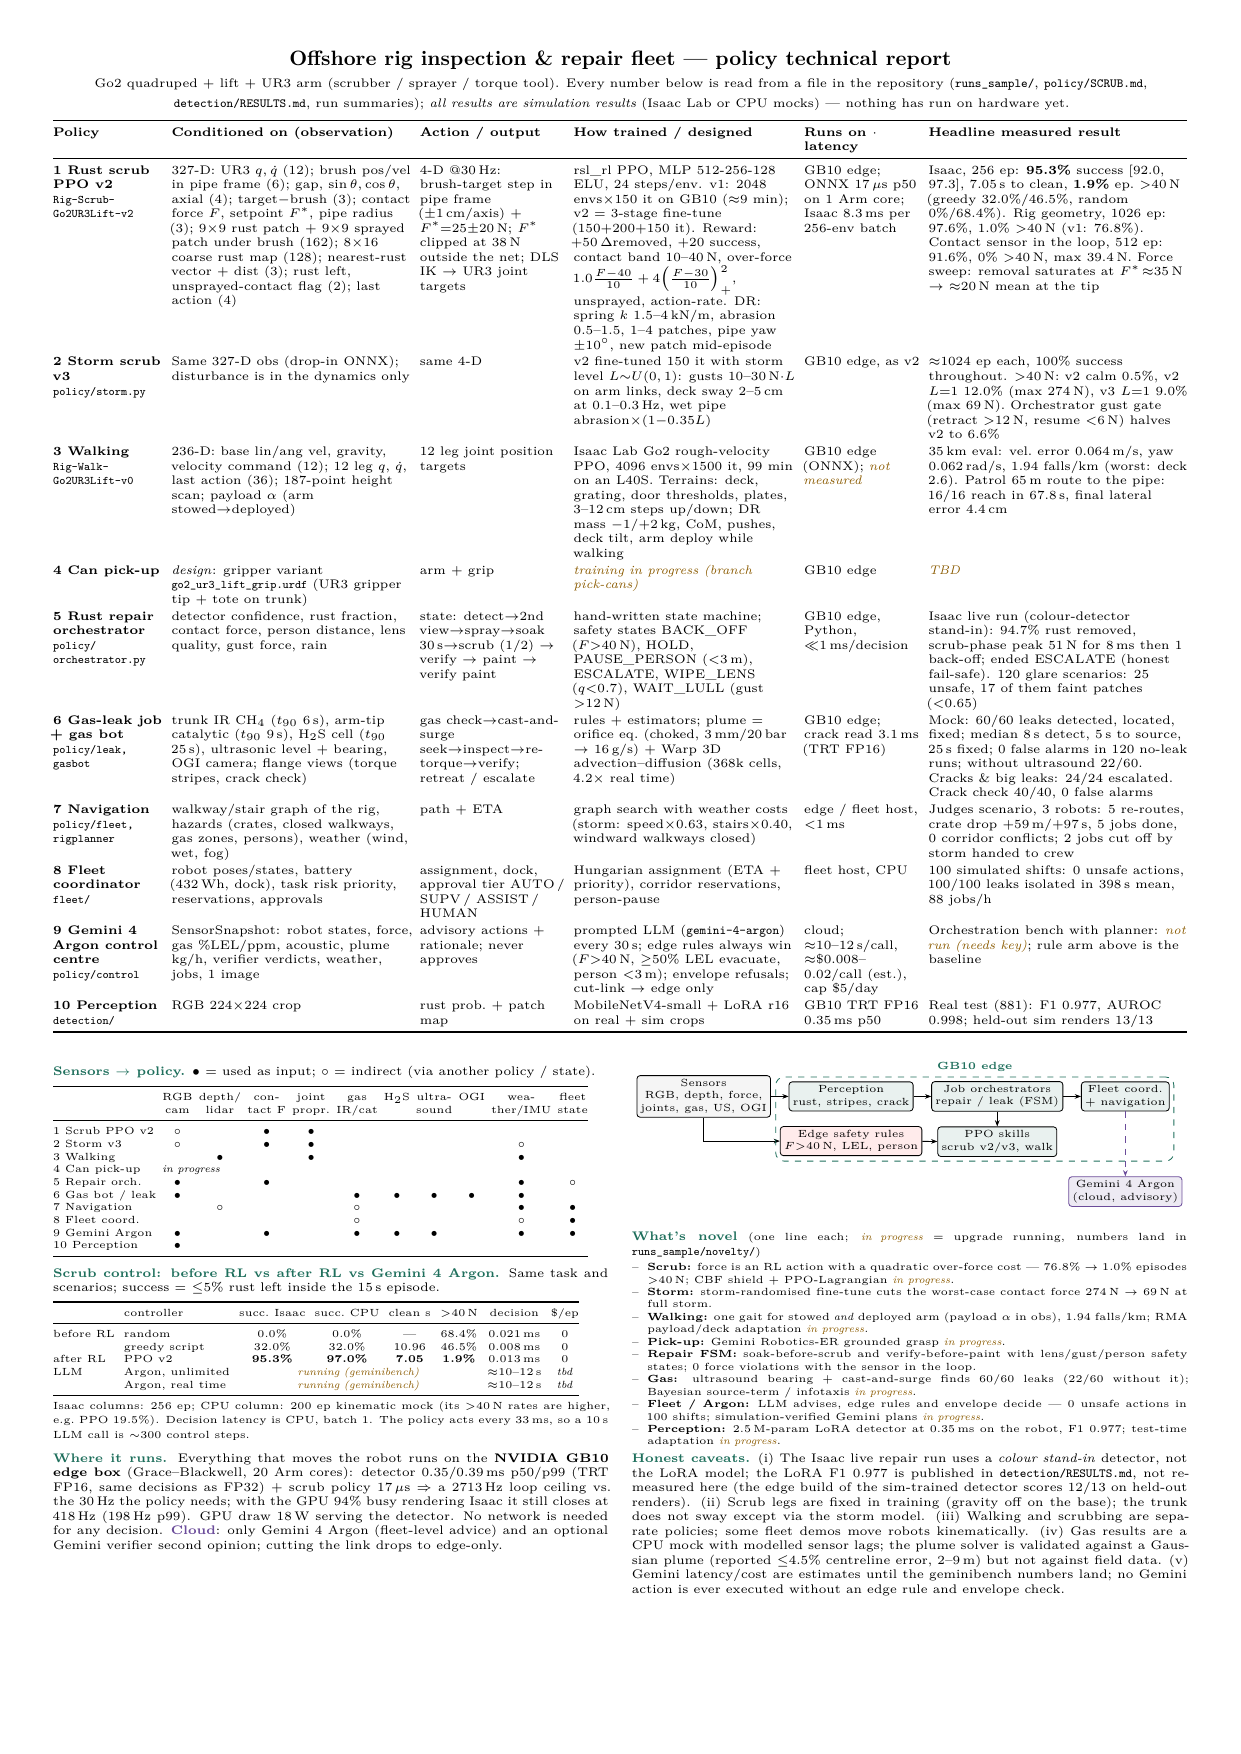
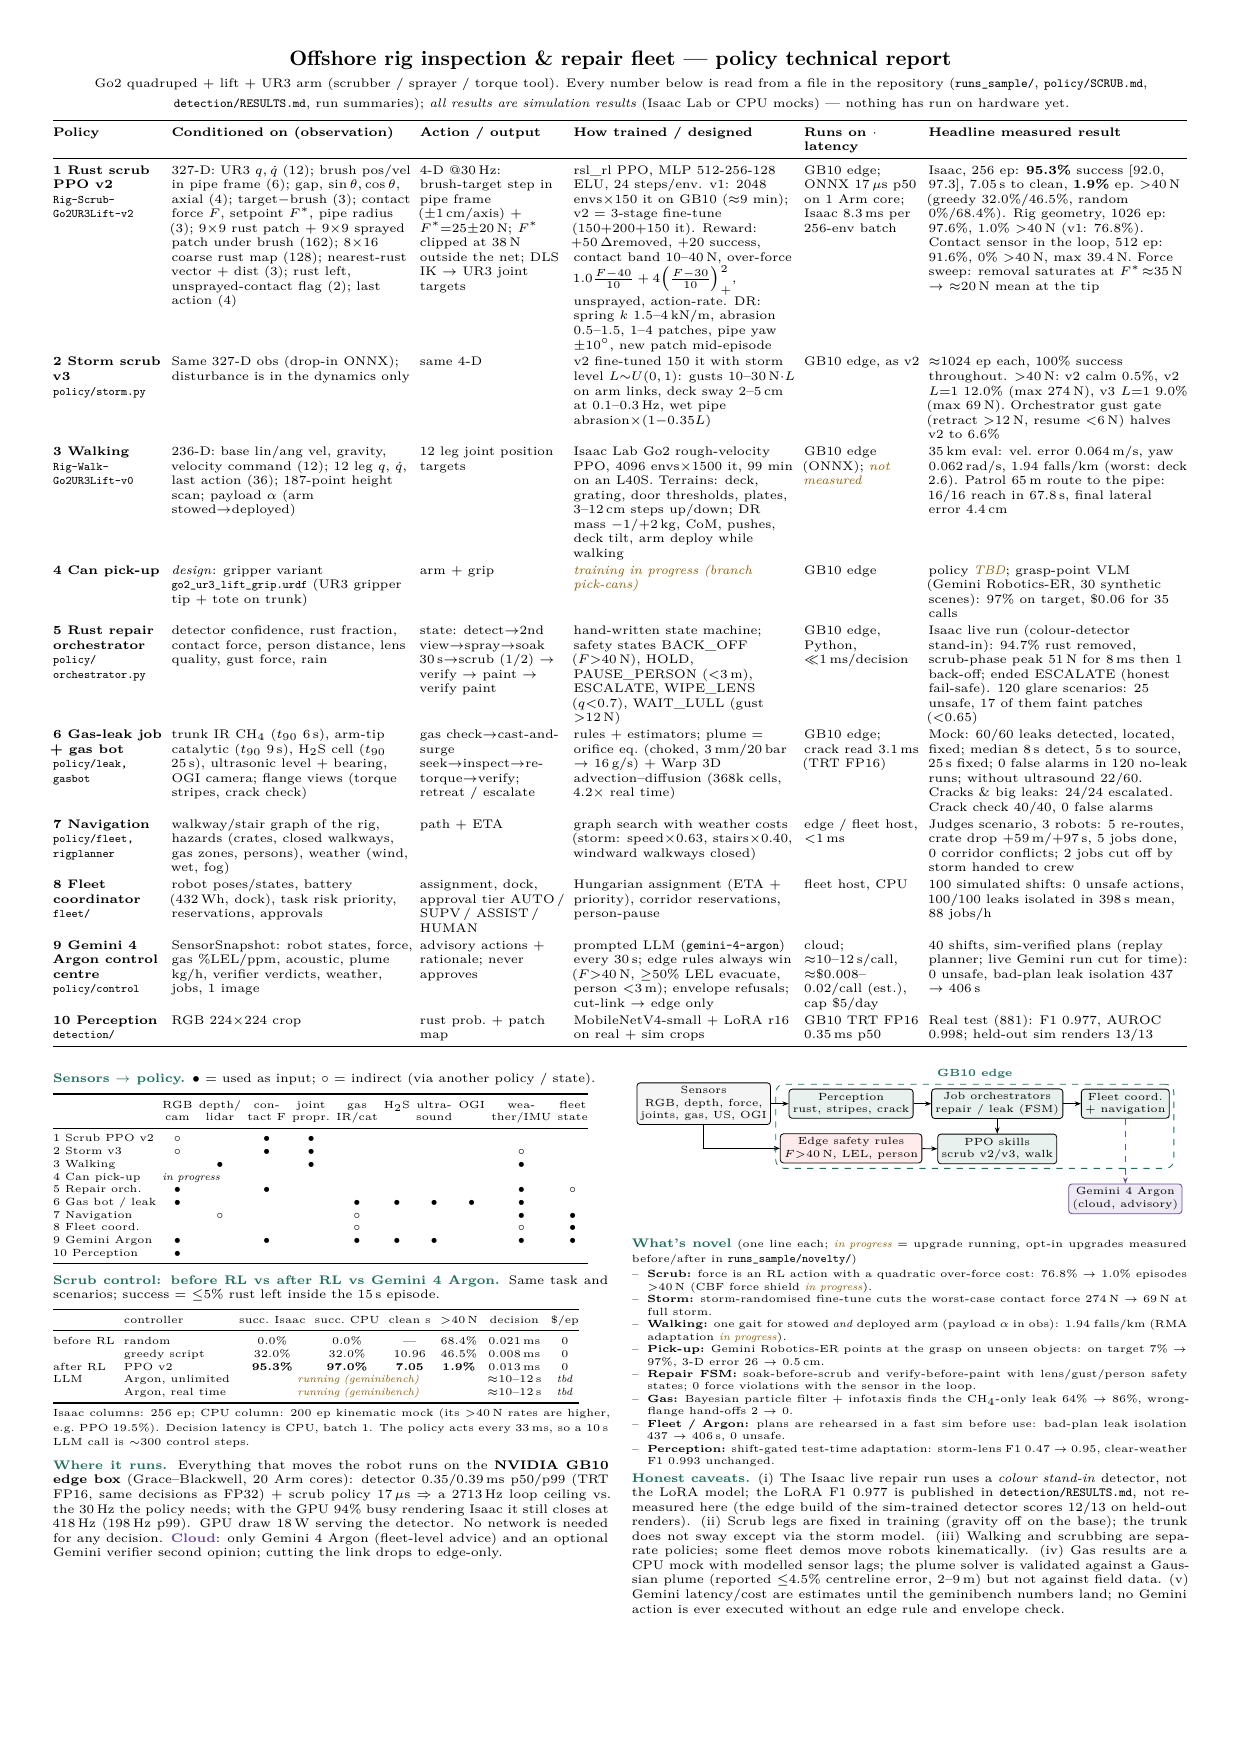
Policy report v2: novelty one-liners from runs_sample/novelty/SUMMARY.md, VLM grasp and sim-verified planning results in the table

Changed region(s): [[0.0306, 0.3079, 0.9492, 0.9236], [0.643, 0.3387, 0.7043, 0.3694]]

diff --git a/docs/policy_report/policy_report.tex b/docs/policy_report/policy_report.tex
@@ -76,7 +76,7 @@ GB10 edge (ONNX); \nm &
 \textbf{4 Can pick-up} &
 \textit{design}: gripper variant \fn{go2\_ur3\_lift\_grip.urdf} (UR3 gripper tip + tote on trunk) &
 arm + grip &
-\textcolor{note}{\textit{training in progress (branch pick-cans)}} & GB10 edge & \textcolor{note}{\textit{TBD}} \\
+\textcolor{note}{\textit{training in progress (branch pick-cans)}} & GB10 edge & policy \textcolor{note}{\textit{TBD}}; grasp-point VLM (Gemini Robotics-ER, 30 synthetic scenes): 97\% on target, \$0.06 for 35 calls \\
 \addlinespace[1pt]
 \textbf{5 Rust repair orchestrator} \newline \fn{policy/}\newline\fn{orchestrator.py} &
 detector confidence, rust fraction, contact force, person distance, lens quality, gust force, rain &
@@ -118,7 +118,7 @@ advisory actions + rationale; never approves &
 prompted LLM (\texttt{gemini-4-argon}) every 30\,s; edge rules always win ($F{>}40$\,N, $\geq$50\% LEL evacuate, person
 $<$3\,m); envelope refusals; cut-link $\to$ edge only &
 cloud; $\approx$10--12\,s/call, $\approx$\$0.008--0.02/call (est.), cap \$5/day &
-Orchestration bench with planner: \textcolor{note}{\textit{not run (needs key)}}; rule arm above is the baseline \\
+40 shifts, sim-verified plans (replay planner; live Gemini run cut for time): 0 unsafe, bad-plan leak isolation 437 $\to$ 406\,s \\
 \addlinespace[1pt]
 \textbf{10 Perception} \newline \fn{detection/} &
 RGB 224$\times$224 crop &
@@ -197,16 +197,16 @@ opinion; cutting the link drops to edge-only.
 \end{tikzpicture}
 \end{center}
 
-\hd{What's novel} {\scriptsize(one line each; \textcolor{note}{\textit{in progress}} = upgrade running, numbers land in \fn{runs\_sample/novelty/})}\par
+\hd{What's novel} {\scriptsize(one line each; \textcolor{note}{\textit{in progress}} = upgrade running, opt-in upgrades measured before/after in \fn{runs\_sample/novelty/})}\par
 {\scriptsize\begin{itemize}[label=--]
-\item \textbf{Scrub:} force is an RL action with a quadratic over-force cost --- 76.8\% $\to$ 1.0\% episodes $>$40\,N; CBF shield + PPO-Lagrangian \textcolor{note}{\textit{in progress}}.
+\item \textbf{Scrub:} force is an RL action with a quadratic over-force cost: 76.8\% $\to$ 1.0\% episodes $>$40\,N (CBF force shield \textcolor{note}{\textit{in progress}}).
 \item \textbf{Storm:} storm-randomised fine-tune cuts the worst-case contact force 274\,N $\to$ 69\,N at full storm.
-\item \textbf{Walking:} one gait for stowed \emph{and} deployed arm (payload $\alpha$ in obs), 1.94 falls/km; RMA payload/deck adaptation \textcolor{note}{\textit{in progress}}.
-\item \textbf{Pick-up:} Gemini Robotics-ER grounded grasp \textcolor{note}{\textit{in progress}}.
+\item \textbf{Walking:} one gait for stowed \emph{and} deployed arm (payload $\alpha$ in obs): 1.94 falls/km (RMA adaptation \textcolor{note}{\textit{in progress}}).
+\item \textbf{Pick-up:} Gemini Robotics-ER points at the grasp on unseen objects: on target 7\% $\to$ 97\%, 3-D error 26 $\to$ 0.5\,cm.
 \item \textbf{Repair FSM:} soak-before-scrub and verify-before-paint with lens/gust/person safety states; 0 force violations with the sensor in the loop.
-\item \textbf{Gas:} ultrasound bearing + cast-and-surge finds 60/60 leaks (22/60 without it); Bayesian source-term / infotaxis \textcolor{note}{\textit{in progress}}.
-\item \textbf{Fleet / Argon:} LLM advises, edge rules and envelope decide --- 0 unsafe actions in 100 shifts; simulation-verified Gemini plans \textcolor{note}{\textit{in progress}}.
-\item \textbf{Perception:} 2.5\,M-param LoRA detector at 0.35\,ms on the robot, F1 0.977; test-time adaptation \textcolor{note}{\textit{in progress}}.
+\item \textbf{Gas:} Bayesian particle filter + infotaxis finds the CH$_4$-only leak 64\% $\to$ 86\%, wrong-flange hand-offs 2 $\to$ 0.
+\item \textbf{Fleet / Argon:} plans are rehearsed in a fast sim before use: bad-plan leak isolation 437 $\to$ 406\,s, 0 unsafe.
+\item \textbf{Perception:} shift-gated test-time adaptation: storm-lens F1 0.47 $\to$ 0.95, clear-weather F1 0.993 unchanged.
 \end{itemize}}
 
 \hd{Honest caveats.} (i) The Isaac live repair run uses a \emph{colour stand-in} detector, not the LoRA model; the LoRA
